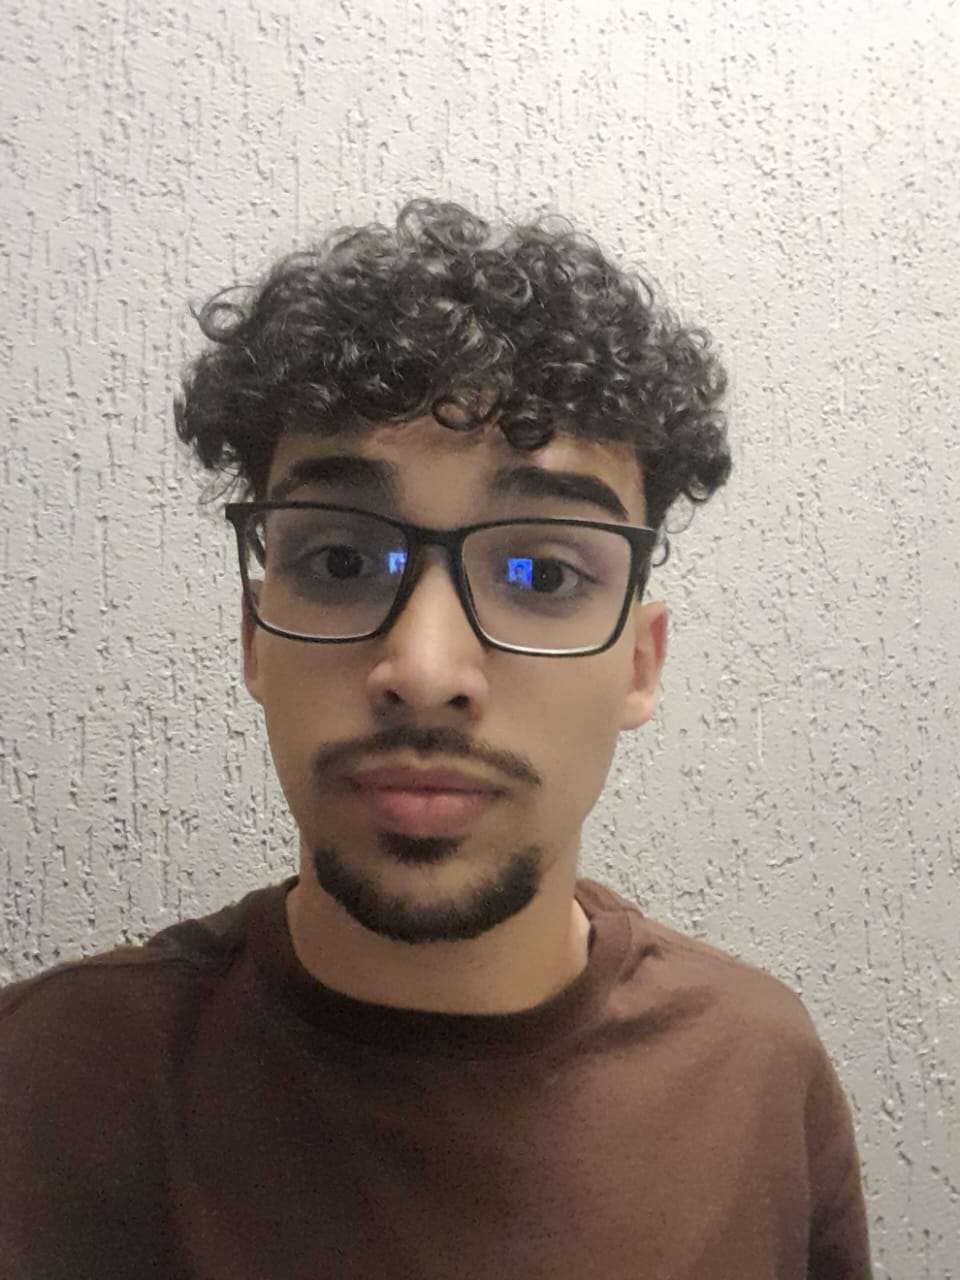
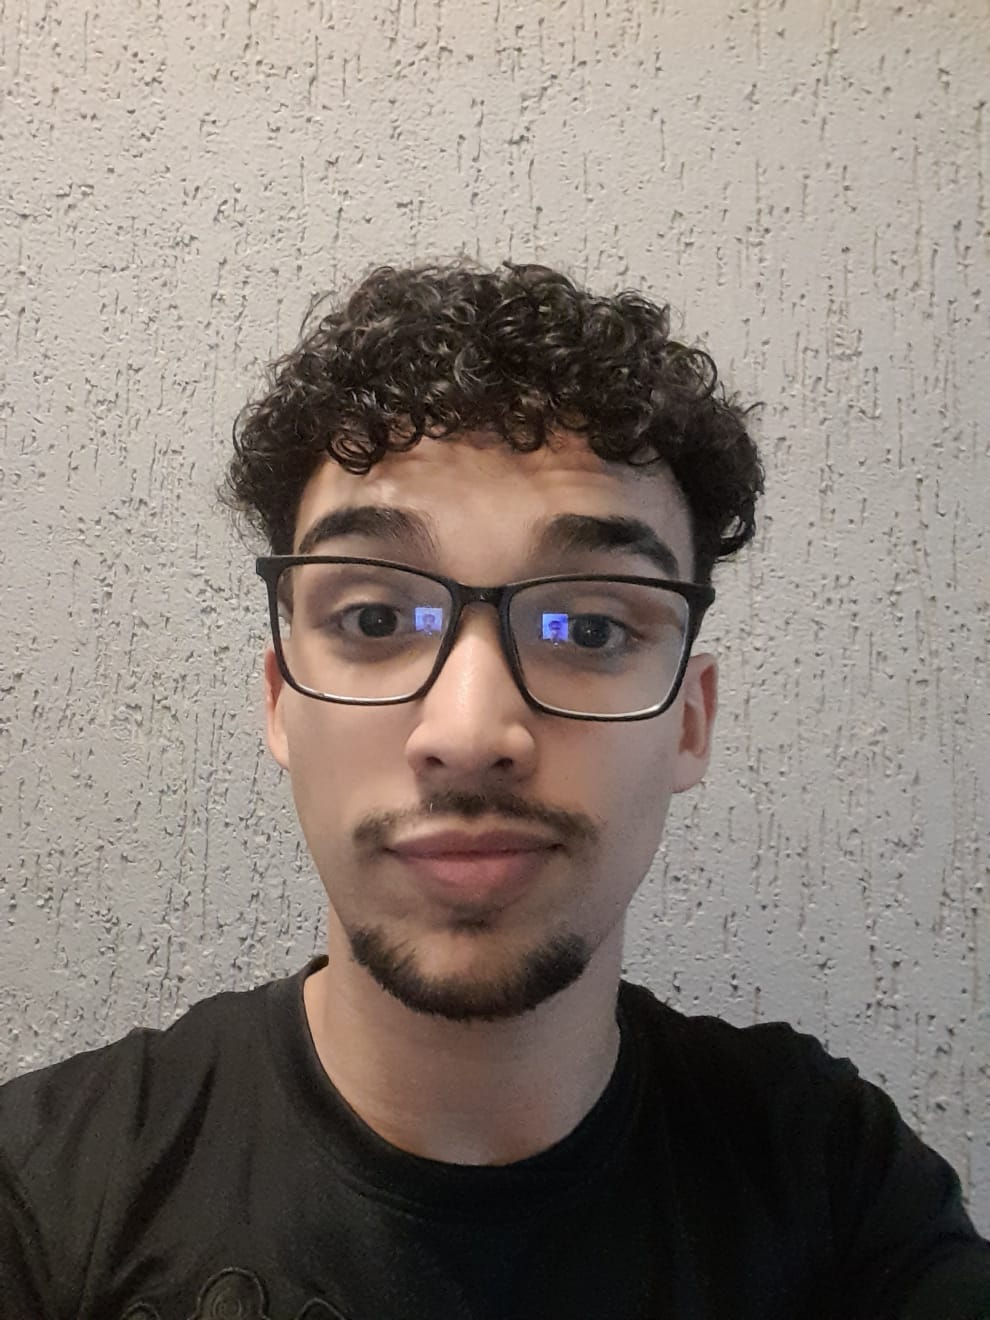
feat: atualização de conteudo e foto do perfil

diff --git a/src/pages/footer/footer.tsx b/src/pages/footer/footer.tsx
@@ -40,7 +40,7 @@ function FooterDois() {
   return (
     <StyledFooter theme={theme}>
       <Typography color="primary" variant="h3" pb={2}>
-        Todos os direitos reservados a mim. {currentYear}
+        Todos os direitos reservados. {currentYear}
       </Typography>
       <IconContainer>
         <a href="https://www.linkedin.com/in/gustavo-moraes-4001542b8/" target="_blank" rel="noopener noreferrer">
